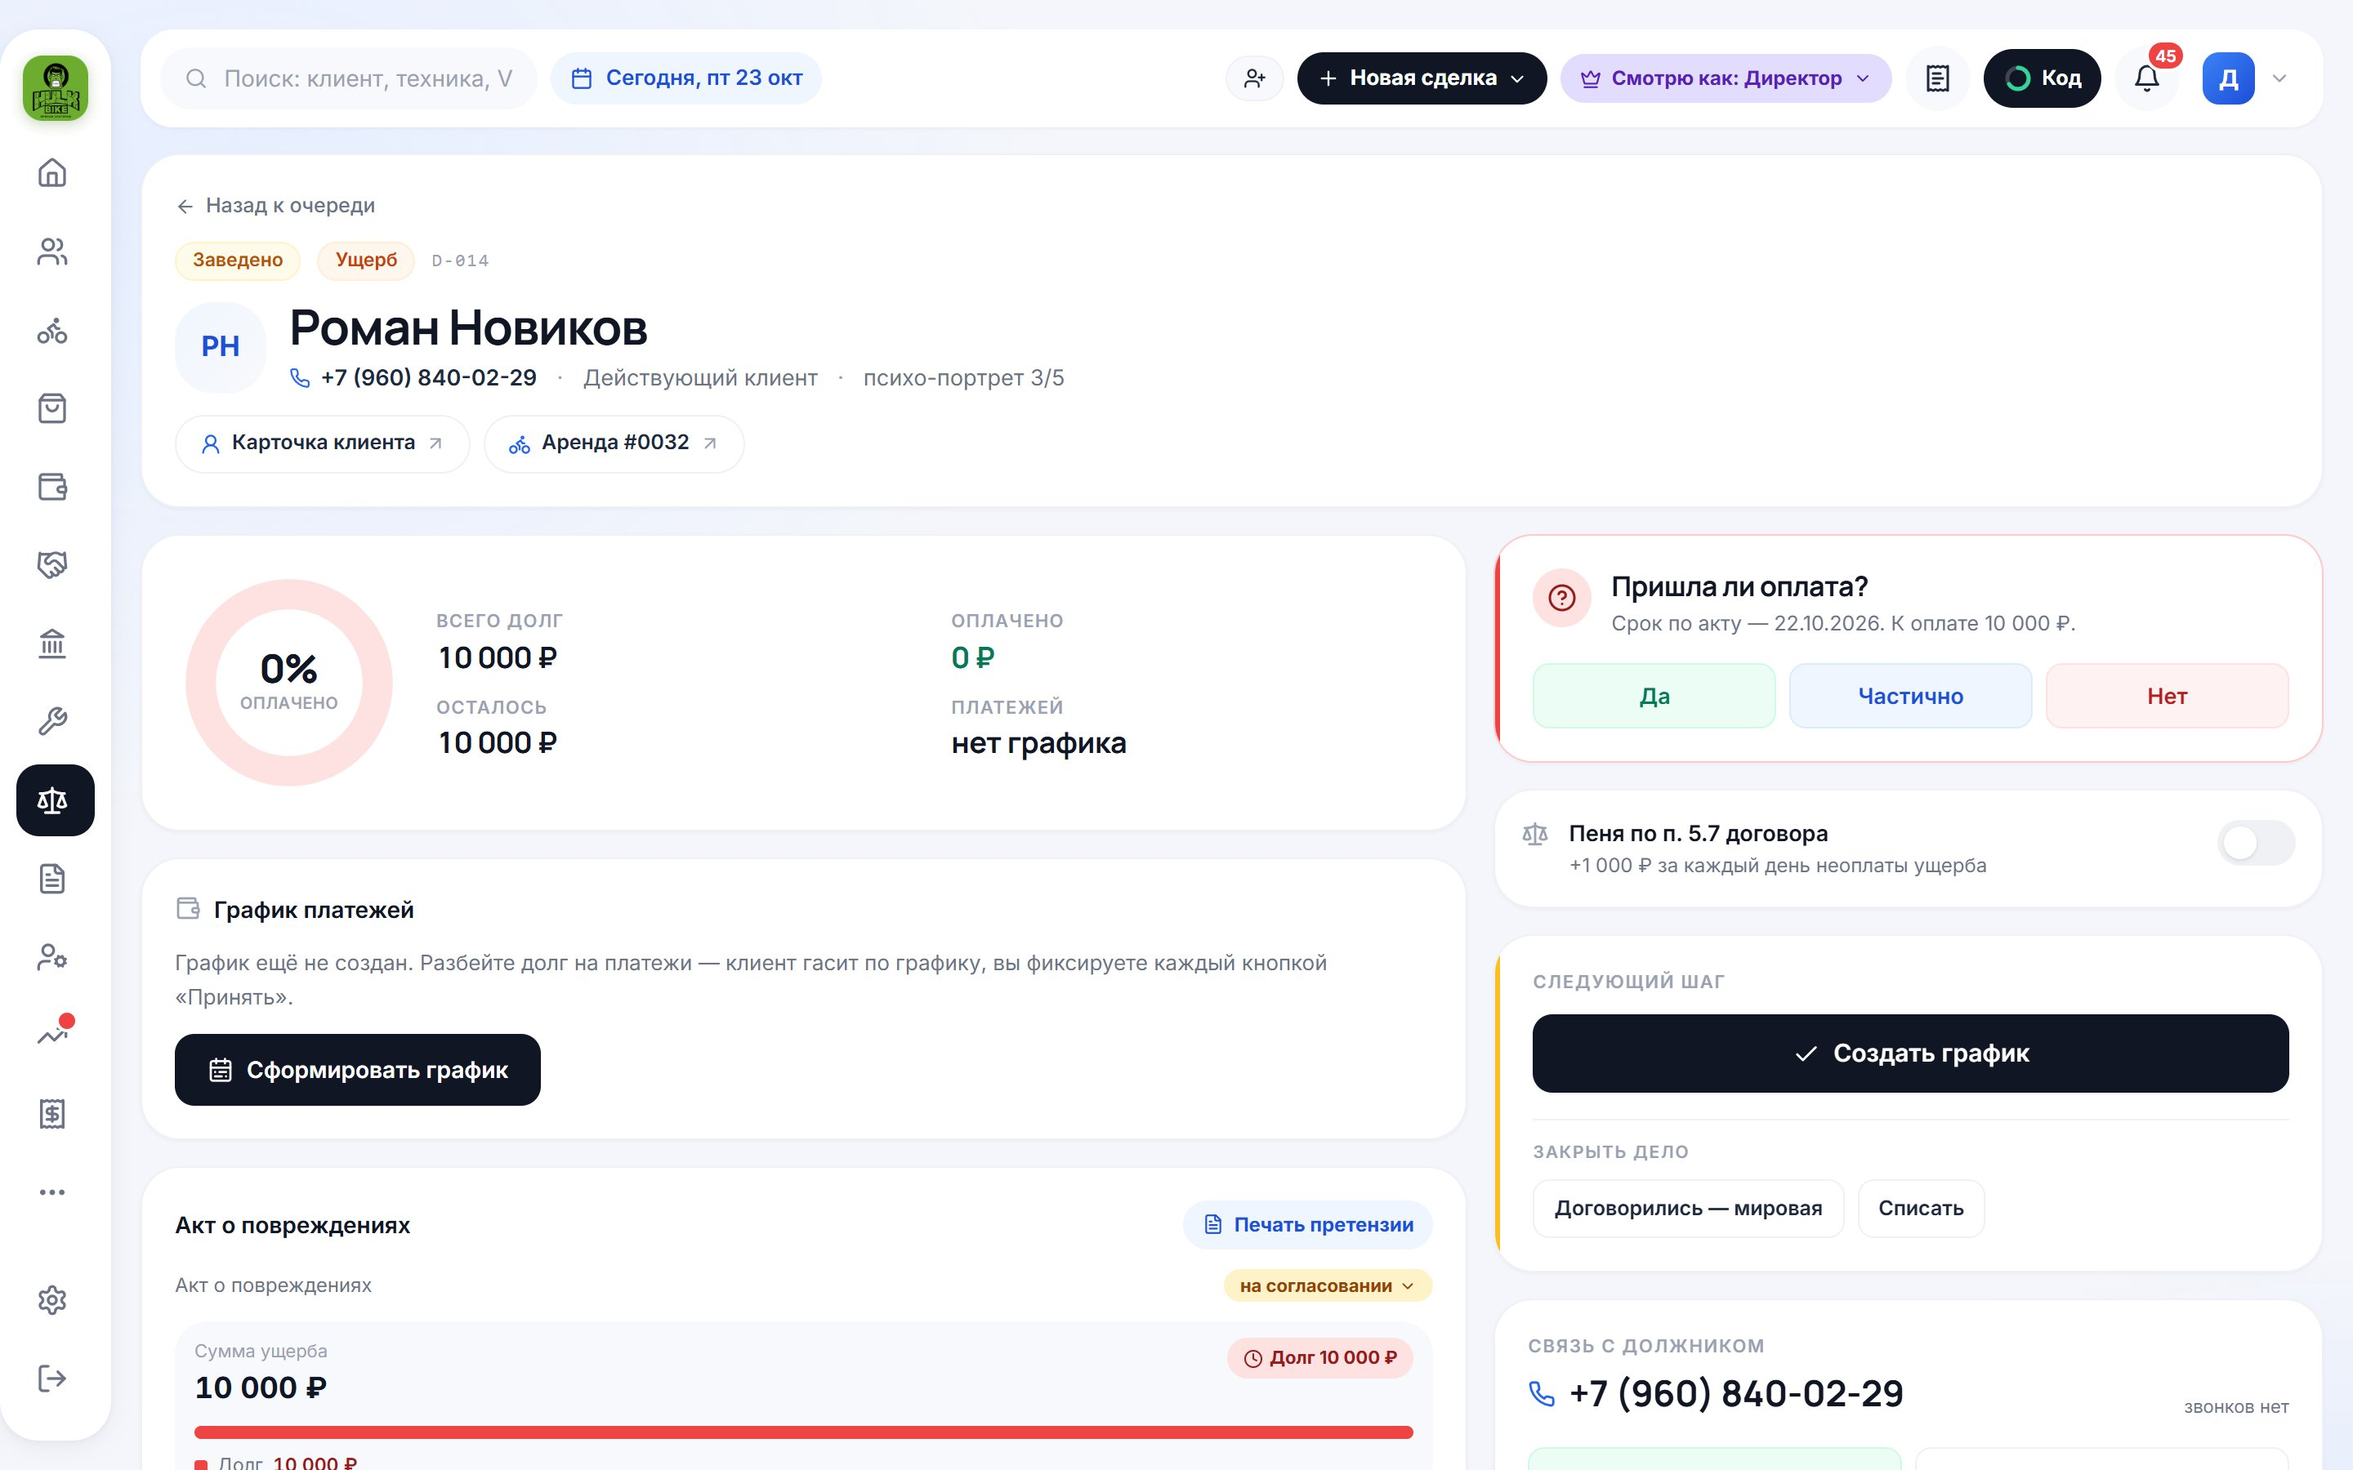
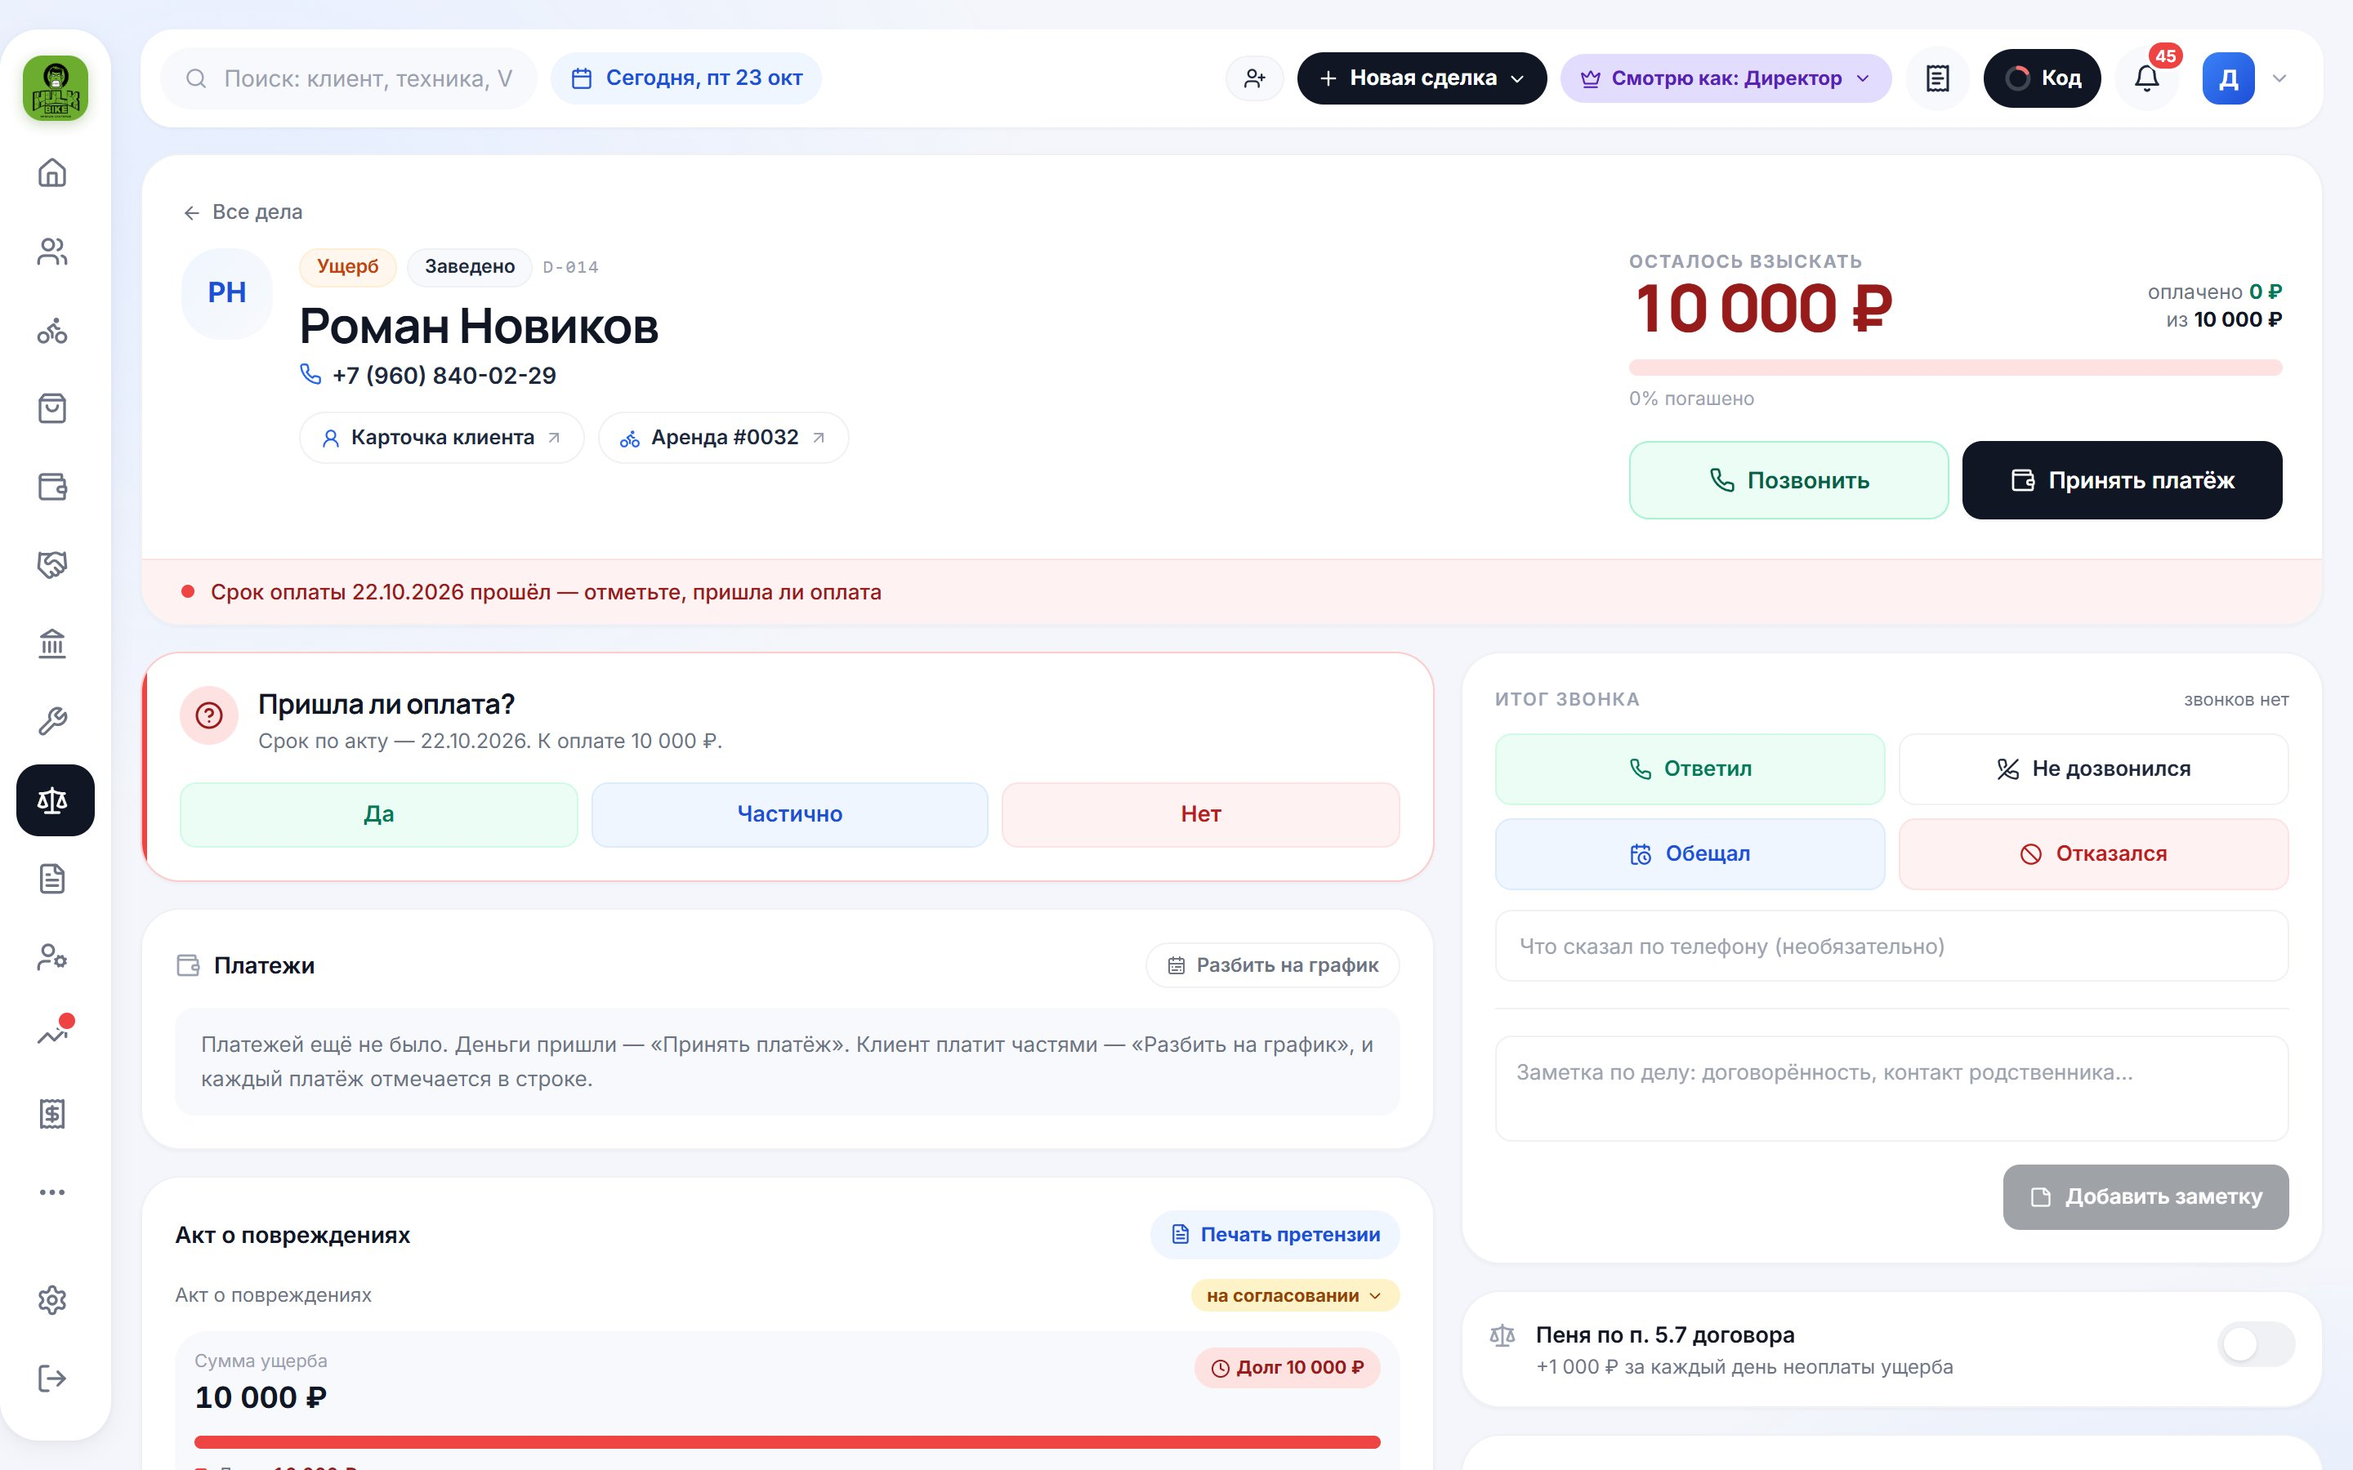
docs(развитие): пункты bug-31…bug-35 (карточка должника, чипы-причины, выкуп, клиент, сходимость денег); телефон — кнопки дела во всю ширину

diff --git a/apps/web/src/data/progress.ts b/apps/web/src/data/progress.ts
@@ -7622,6 +7622,105 @@ export const progressItems: ProgressItem[] = [
       },
     ],
   },
+  {
+    id: "bug-31",
+    num: "31",
+    updatedAt: "2026-10-23",
+    group: "bugs",
+    title: "Карточка должника: всё главное с первого взгляда",
+    quote:
+      "Открываем карточку — сразу видно долг, график, имя, сколько осталось, какая сумма. А сейчас всё разбросано.",
+    status: "done",
+    note:
+      "Что было: имя, суммы, статус и действия были раскиданы по экрану, принять платёж — только из графика. Что сделано: сверху сводка — фото, имя, телефон, «Осталось взыскать» крупно, «оплачено из», полоса погашения, кнопки «Позвонить» и «Принять платёж», и одной строкой статус дела («ждём оплату до…», «срок прошёл — пришла ли оплата?», «просрочка по графику», «в работе · звонок …, обещал к …»). Ниже — «Пришла ли оплата?», платежи и график, откуда долг (акт или сделка выкупа), итог звонка, ход дела и хронология одной лентой. На телефоне сводка и кнопки — на первом экране.",
+    story: [
+      {
+        tag: "bug",
+        text: "Было разбросано.",
+        imgs: [{ src: "/progress/v2012-case-was.jpg", label: "БЫЛО: дело должника" }],
+      },
+      {
+        tag: "fix",
+        text: "Сводка сверху, дальше — рабочие блоки.",
+        imgs: [{ src: "/progress/v2012-case-now.jpg", label: "СТАЛО: компьютер" }, { src: "/progress/v2012-case-phone-now.jpg", label: "СТАЛО: телефон" }],
+      },
+    ],
+  },
+  {
+    id: "bug-32",
+    num: "32",
+    updatedAt: "2026-10-23",
+    group: "bugs",
+    title: "Должники: у кого какая проблема — чипами",
+    quote:
+      "В списке должников чипс с причиной: у этого ущерб такая-то сумма, у этого ущерб плюс задолженность по аренде, у этого по выкупу. Видеть графики, соблюдают или нет, когда был последний платёж.",
+    status: "done",
+    note:
+      "Что сделано: «Все должники» — одна строка на человека. Под именем чипы-причины с суммами («Ущерб 27 500 ₽», «Аренда 650 ₽», «Выкуп …»), у ждущих оплату — «до 30.10», у просроченных — «срок прошёл»; нажатие на чип открывает это дело. Ниже — последний платёж (дата и сумма) и как идёт график: «график соблюдает · след. 30.10» или красным «график: просрочка 5 дн». Справа — сколько всего осталось и сколько уже оплачено.",
+    story: [
+      {
+        tag: "fix",
+        text: "Причины и платежи видны в списке.",
+        imgs: [{ src: "/progress/v2012-debtors-now.jpg", label: "СТАЛО: компьютер" }, { src: "/progress/v2012-debtors-phone-now.jpg", label: "СТАЛО: телефон" }],
+      },
+    ],
+  },
+  {
+    id: "bug-33",
+    num: "33",
+    updatedAt: "2026-10-23",
+    group: "bugs",
+    title: "Выкуп: «Передать в «Должники»»",
+    quote:
+      "По выкупу модуль самодостаточен; добавим кнопку «передать в должники», а потом, если надо, автоматически.",
+    status: "done",
+    note:
+      "Что сделано: в сделке выкупа с просрочкой (или сорванной) — кнопка «Передать в «Должники»», комментарий обязателен. Долг дела — просроченные платежи по графику (у сорванной сделки — весь остаток). Платёж, принятый в «Должниках», гасит ближайшие строки графика выкупа, как в самой сделке; клиент догнал график — дело закрывается само. В сделке — ссылка на дело, в деле — сводка сделки и «Открыть сделку». Повторно передать нельзя — откроется то же дело.",
+    story: [
+      {
+        tag: "fix",
+        text: "Кнопка в сделке и окно передачи.",
+        imgs: [{ src: "/progress/v2012-buyout-now.jpg", label: "СТАЛО: сделка выкупа" }, { src: "/progress/v2012-buyout-dialog-now.jpg", label: "СТАЛО: передача в «Должники»" }],
+      },
+    ],
+  },
+  {
+    id: "bug-34",
+    num: "34",
+    updatedAt: "2026-10-23",
+    group: "bugs",
+    title: "Карточка клиента: долг за аренду и ущерб — раздельно",
+    quote:
+      "Если нажмём на карточку клиента, там будет видно, что на него заведено дело и есть такой-то долг.",
+    status: "done",
+    note:
+      "Что было: «Есть непогашенный долг 40 600 ₽» — вместе с ущербом, хотя в карточке аренды 30 600. Что сделано: «Долг за аренду» — ровно как в аренде; «Долг по ущербу … · в «Должниках» · дело D-…» — нажатие открывает дело. В списке клиентов, фильтре «С долгом» и штампе «Должник» — общий долг (аренда + дела). Так же на телефоне.",
+    story: [
+      {
+        tag: "fix",
+        text: "Два долга — две строки, ущерб ведёт в дело.",
+        imgs: [{ src: "/progress/v2012-client-now.jpg", label: "СТАЛО: карточка клиента" }],
+      },
+    ],
+  },
+  {
+    id: "bug-35",
+    num: "35",
+    updatedAt: "2026-10-23",
+    group: "bugs",
+    title: "Деньги по долгам сходятся везде",
+    quote:
+      "Здесь же в деньгах дело — продумывать наперёд, исключая все последующие баги.",
+    status: "done",
+    note:
+      "Что сделано и проверено сквозным тестом на копии базы (53 проверки): оплата в аренде и в «Должниках» видна в обоих местах; платёж больше остатка не принимается; отменили оплату или увеличили акт — дело снова открыто; удалили акт или аренду — дело закрыто с пометкой; пеня по п. 5.7 попадает в выручку; дело «долг за аренду» гасит долг самой аренды; списали дело — в аренде и у клиента долга нет; претензия печатает реальную задолженность (минус залог и оплаты, плюс пеня); выписка учитывает закрытые дела; плитки парка, аналитика и предупреждение при новой аренде — по делам.",
+    story: [
+      {
+        tag: "fix",
+        text: "Проверено сценариями: акт → дело → оплаты → отмена → пеня → списание → выкуп.",
+      },
+    ],
+  },
 ];
 
 /** Сводка по статусам — для прогресс-бара и чипов. */

diff --git a/apps/web/src/pages/debtors/DebtorCase.tsx b/apps/web/src/pages/debtors/DebtorCase.tsx
@@ -463,6 +463,7 @@ export function DebtorCase({
         </button>
         <div className="flex flex-col gap-5 lg:flex-row lg:items-start lg:justify-between">
           {/* Кто */}
+          <div className="min-w-0">
           <div className="flex min-w-0 items-start gap-4">
             <CaseAvatar name={d.displayName} photoKey={d.clientPhotoKey ?? null} />
             <div className="min-w-0">
@@ -489,8 +490,10 @@ export function DebtorCase({
                 <Phone size={14} className="text-blue-600" />
                 {d.displayPhone}
               </a>
+            </div>
+          </div>
               {(d.clientId != null || d.relatedRentalId != null) && (
-                <div className="mt-2.5 flex flex-wrap gap-2">
+                <div className="mt-3 flex flex-wrap gap-2 sm:pl-[72px]">
                   {d.clientId != null && (
                     <button
                       type="button"
@@ -528,7 +531,6 @@ export function DebtorCase({
                   )}
                 </div>
               )}
-            </div>
           </div>
 
           {/* Сколько */}
